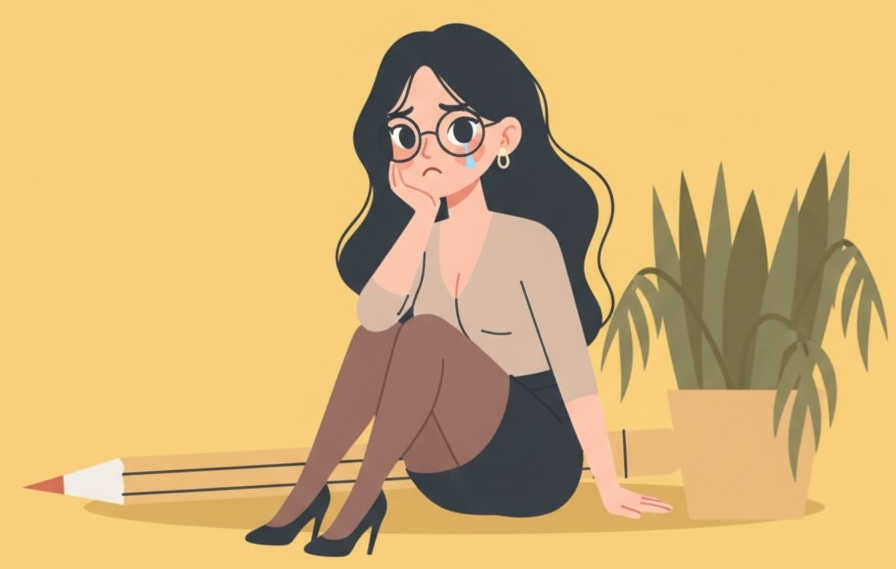
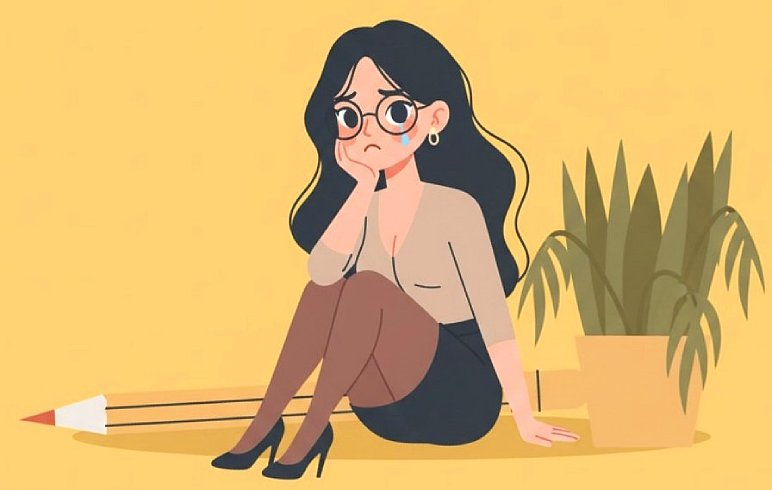
feat(images): 更新登入與註冊頁面的圖片資源
- 替換登入頁面的圖片為 signin.jpeg
- 替換註冊頁面的圖片為 signup.jpeg
- 新增無待辦事項的背景圖片 empty-task.jpeg

diff --git a/src/views/TodoListView.vue b/src/views/TodoListView.vue
@@ -22,7 +22,9 @@
 
         <TodoForm />
         <TodoList v-if="todoStore.totalCount" />
-        <div class="alert alert-warning text-secondary" v-else>無待辦事項</div>
+        <div class="empty-todo-bg d-block mx-auto" v-else>
+          <div class="empty-todo-label">無待辦事項</div>
+        </div>
       </div>
     </div>
   </div>
@@ -54,3 +56,30 @@ const logout = async () => {
   }
 }
 </script>
+
+<style scoped>
+.empty-todo-bg {
+  position: relative;
+  width: 480px;
+  height: 320px;
+  background: url('/img/empty-task.jpeg') center/cover no-repeat;
+  margin: 0 auto;
+}
+
+.empty-todo-label {
+  position: absolute;
+  top: 16px;
+  left: 16px;
+  width: 150px;
+  height: 80px;
+  background: #fff;
+  color: #333;
+  border-radius: 50%;
+  display: flex;
+  align-items: center;
+  justify-content: center;
+  font-weight: bold;
+  font-size: 1.1rem;
+  box-shadow: 0 2px 8px rgba(0, 0, 0, 0.3);
+}
+</style>

diff --git a/src/views/SignInView.vue b/src/views/SignInView.vue
@@ -3,9 +3,7 @@
     <div class="conatiner loginPage vhContainer ">
       <div class="side">
         <img class="logoImg" src="/img/logo.png" alt="">
-        <img class="d-m-n"
-          src="https://raw.githubusercontent.com/hexschool/2022-web-layout-training/main/todolist/img.png"
-          alt="workImg">
+        <img class="d-m-n" src="/img/signin.jpeg" alt="workImg">
       </div>
       <div>
         <form class="formControls">
@@ -67,7 +65,7 @@ const submitForm = handleSubmit(async (values) => {
     // 保存到 user store
     userStore.save(token, nickname)
 
-    await showSuccessAlert(`歡迎回來，${nickname}`, '正在轉導到待辦事項....', 3000)
+    await showSuccessAlert(`歡迎回來，${nickname}`, '即將前往待辦事項....', 3000)
 
     // 重定向到 todolist
     router.push('/todolist')

diff --git a/src/views/SignUpView.vue b/src/views/SignUpView.vue
@@ -3,9 +3,7 @@
     <div class="conatiner signUpPage vhContainer">
       <div class="side">
         <img class="logoImg" src="/img/logo.png" alt="">
-        <img class="d-m-n"
-          src="https://raw.githubusercontent.com/hexschool/2022-web-layout-training/main/todolist/img.png"
-          alt="workImg">
+        <img class="d-m-n" src="/img/signup.jpeg" alt="workImg">
       </div>
       <div>
         <form class="formControls">
